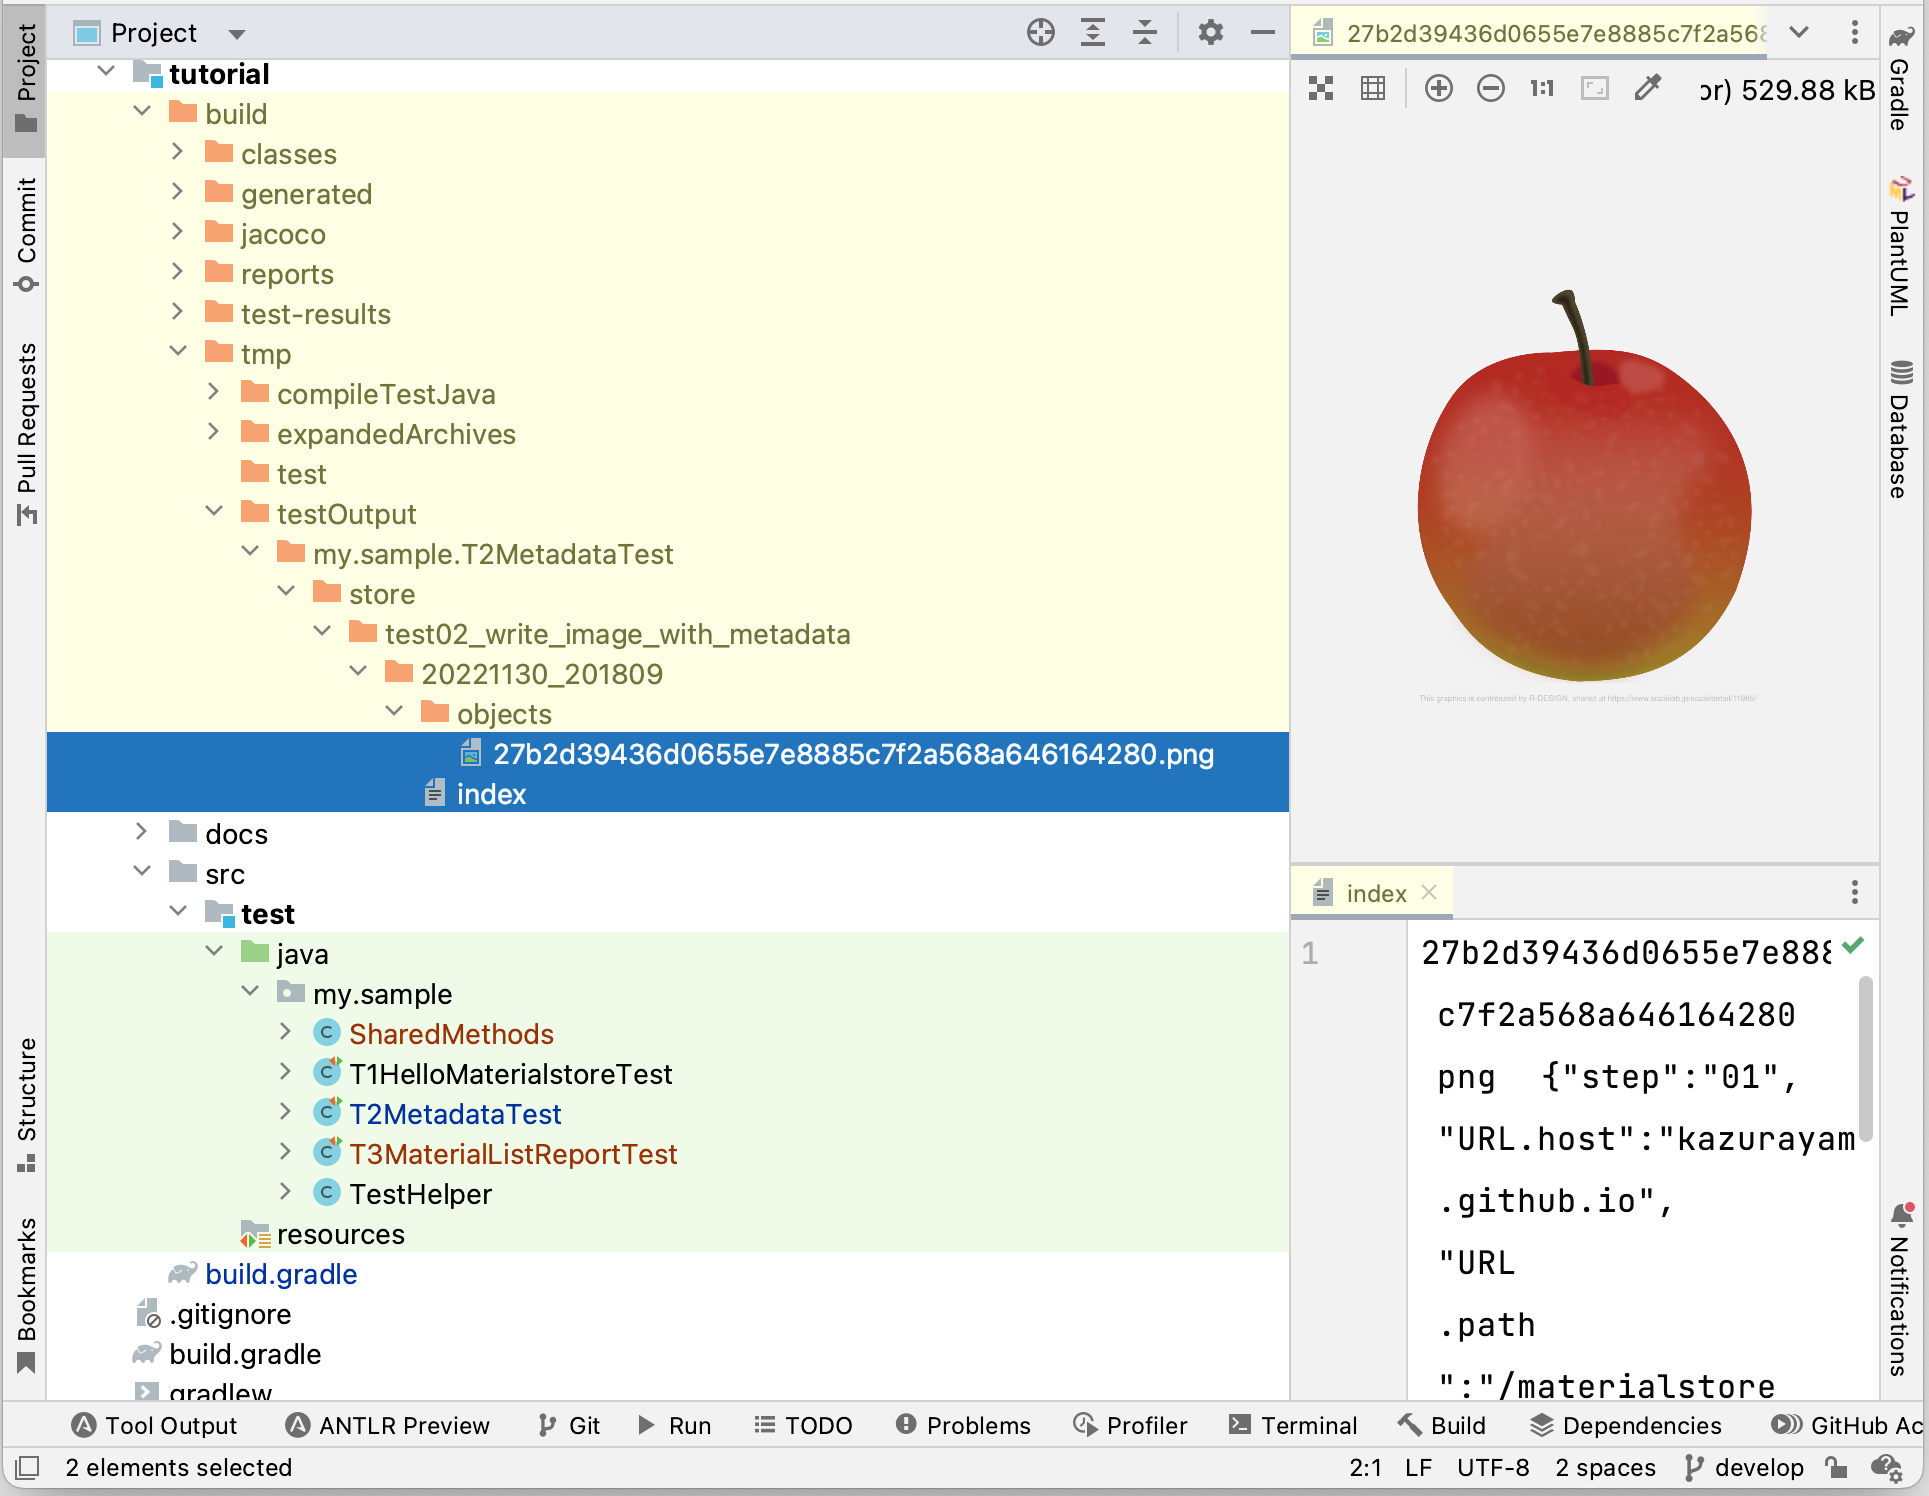
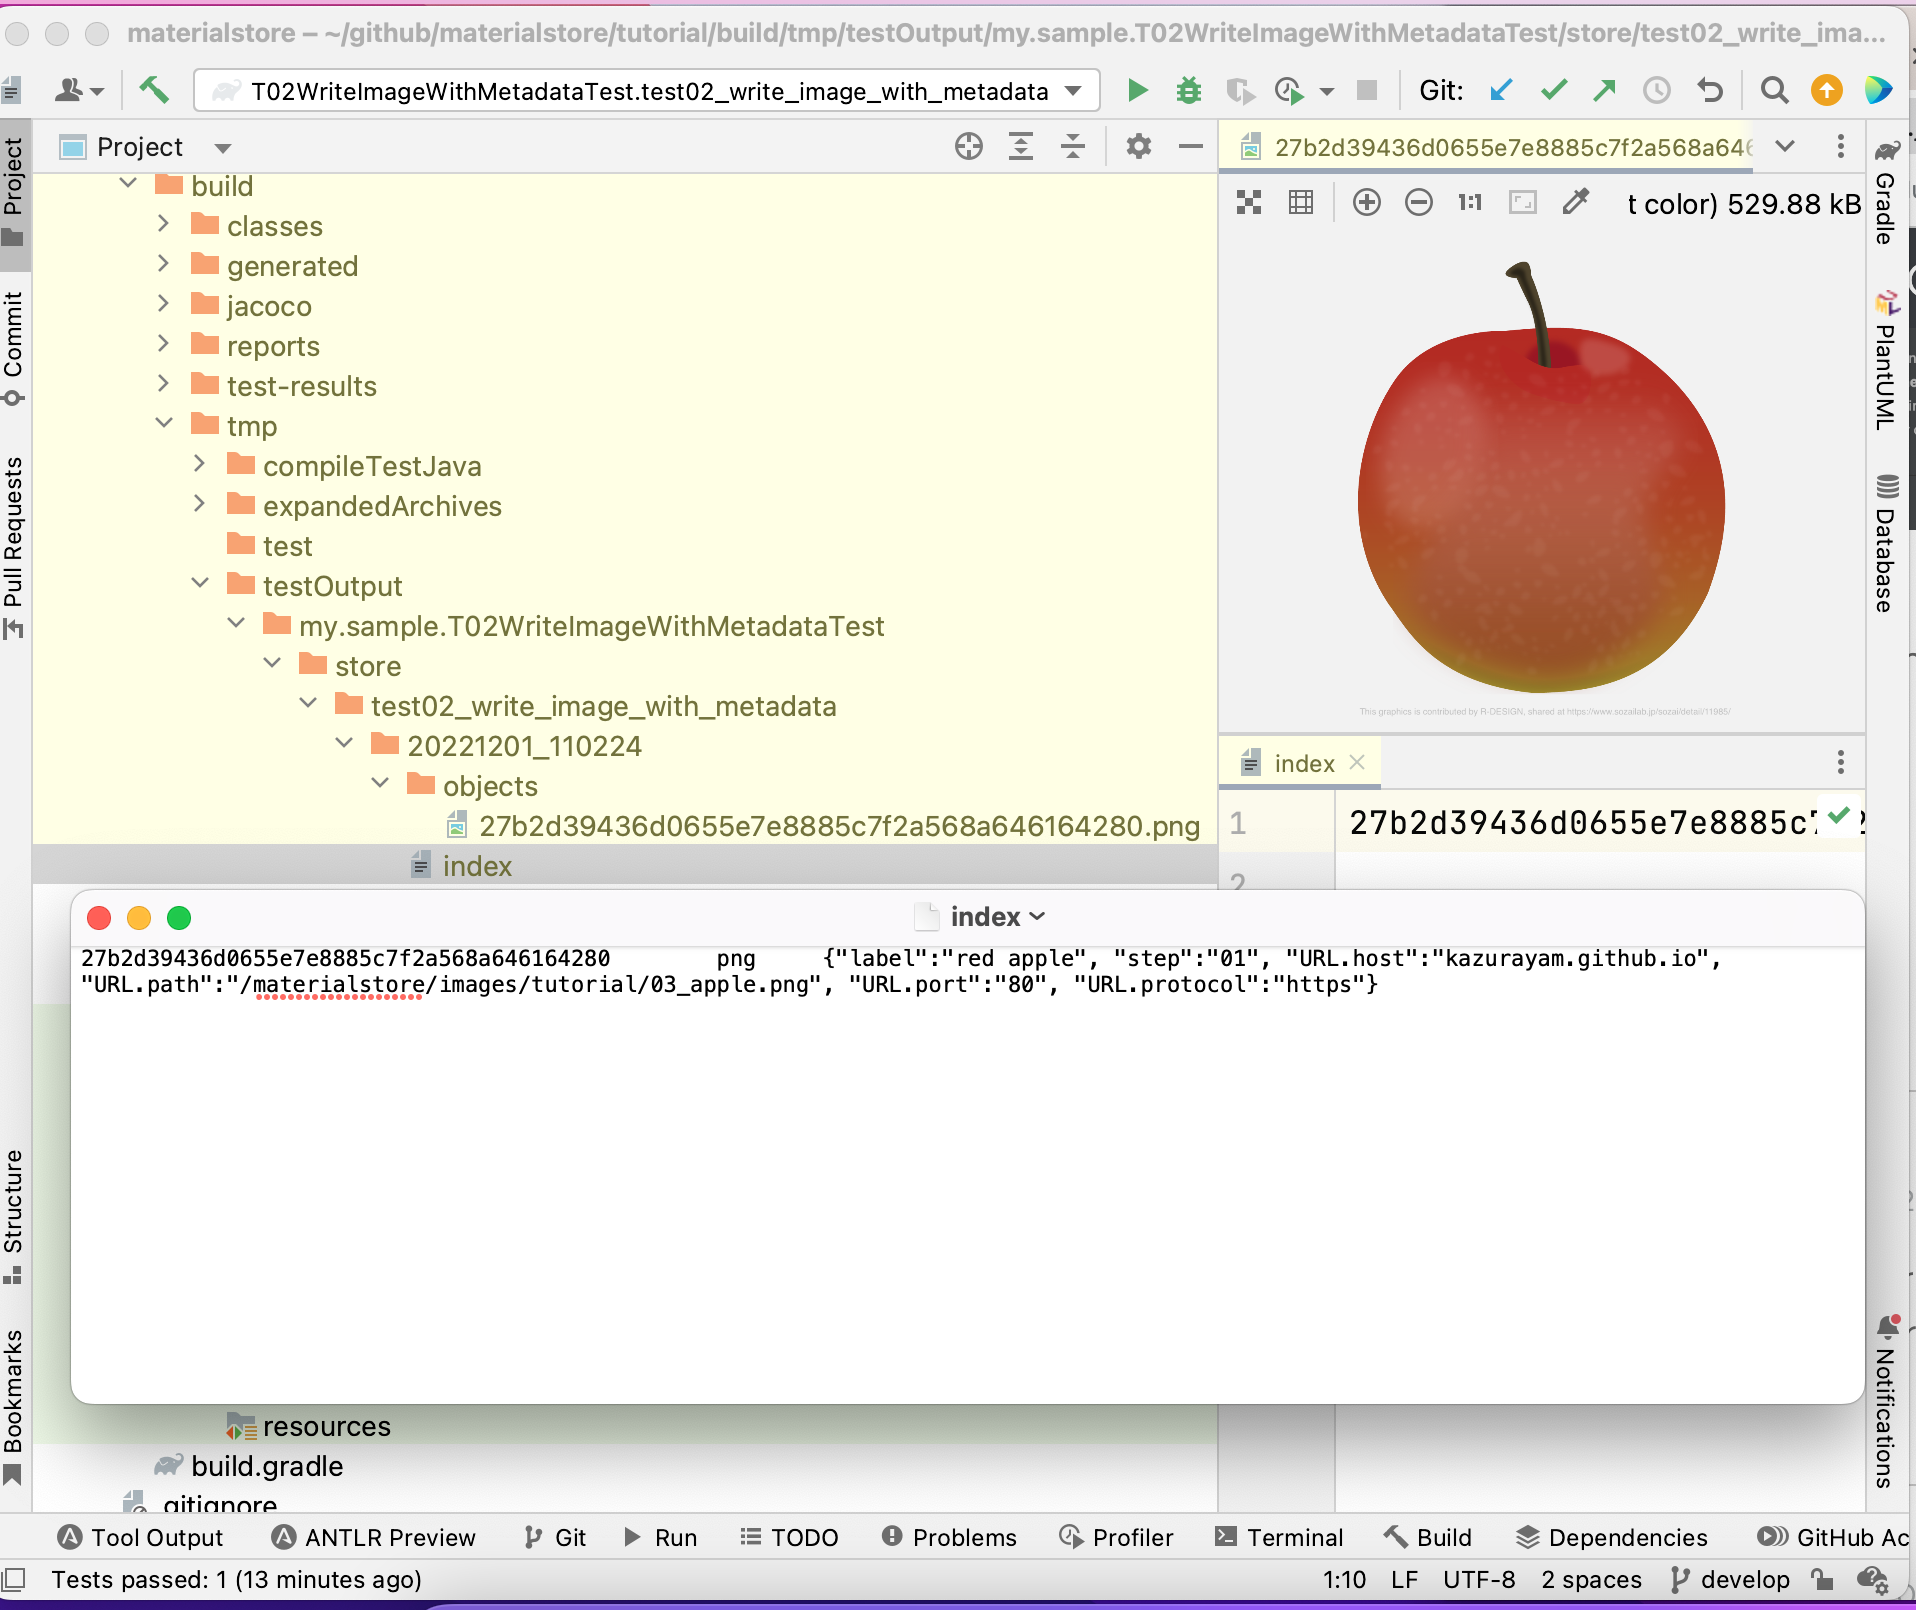
#214

Changed region(s): [[0.0, 0.0, 1.0, 1.0], [0.7082, 0.1537, 0.9238, 0.4612], [0.7698, 0.7995, 0.8622, 0.8302]]

diff --git a/tutorial/src/test/java/my/sample/T03WriteMultipleImagesTest.java b/tutorial/src/test/java/my/sample/T03WriteMultipleImagesTest.java
@@ -28,9 +28,10 @@ public class T03WriteMultipleImagesTest {
             throws MaterialstoreException {
         JobName jobName = new JobName("test03_write_multiple_images");
         JobTimestamp jobTimestamp = JobTimestamp.now();
-        SharedMethods.write3images(store, jobName, jobTimestamp);                       // (16)
+        SharedMethods.write3images(store, jobName, jobTimestamp);  // (16)
         MaterialList allMaterialList =
-                store.select(jobName, jobTimestamp, QueryOnMetadata.ANY); // (17)
+                store.select(jobName, jobTimestamp,
+                        QueryOnMetadata.ANY);                      // (17)
         assertEquals(3, allMaterialList.size());
     }
 }

diff --git a/tutorial/src/test/java/my/sample/T02WriteImageWithMetadataTest.java b/tutorial/src/test/java/my/sample/T02WriteImageWithMetadataTest.java
@@ -45,8 +45,8 @@ public class T02WriteImageWithMetadataTest {
                         bytes);
 
         assertNotNull(material);
-        System.out.println(material.getID() + " " +
-                material.getDescription());                    // (14)
+        System.out.println(material.getID() + " "
+                + material.getDescription());                   // (14)
 
         assertEquals(FileType.PNG, material.getFileType());
         assertEquals("https",

diff --git a/docs/index.md b/docs/index.md
@@ -15,7 +15,8 @@
     -   <a href="#2nd-example-write-an-image-with-metadata" id="toc-2nd-example-write-an-image-with-metadata">2nd example: write an image with Metadata</a>
         -   <a href="#metadata-based-on-url-manually-created-metadata" id="toc-metadata-based-on-url-manually-created-metadata">Metadata based on URL &amp; manually created Metadata</a>
         -   <a href="#order-of-key-value-pairs-in-metadata" id="toc-order-of-key-value-pairs-in-metadata">Order of key-value pairs in Metadata</a>
-        -   <a href="#metadata-explicitly-specified" id="toc-metadata-explicitly-specified">Metadata explicitly specified</a>
+        -   <a href="#keyvalue-pairs-explicitly-specified" id="toc-keyvalue-pairs-explicitly-specified">key:value pairs explicitly specified</a>
+        -   <a href="#retrieving-information-of-a-material" id="toc-retrieving-information-of-a-material">Retrieving information of a material</a>
     -   <a href="#3rd-example-writing-multiple-images" id="toc-3rd-example-writing-multiple-images">3rd example: writing multiple images</a>
     -   <a href="#4th-example-retrieving-a-saved-material" id="toc-4th-example-retrieving-a-saved-material">4th example : retrieving a saved material</a>
     -   <a href="#5th-example-selecting-a-materiallist" id="toc-5th-example-selecting-a-materiallist">5th example : Selecting a MaterialList</a>
@@ -395,8 +396,6 @@ These types will cover the most cases in your automated UI testing.
 
 I will show you next sample code `test02_write_image_with_metadata` of `T2MetadataTest` class.
 
-**T2MetadataTest**
-
     public class T02WriteImageWithMetadataTest {
 
         private Store store;
@@ -424,8 +423,8 @@ I will show you next sample code `test02_write_image_with_metadata` of `T2Metada
                             bytes);
 
             assertNotNull(material);
-            System.out.println(material.getID() + " " +
-                    material.getDescription());                    // (14)
+            System.out.println(material.getID() + " "
+                    + material.getDescription());                   // (14)
 
             assertEquals(FileType.PNG, material.getFileType());
             assertEquals("https",
@@ -481,11 +480,13 @@ the `index` file contains a single line of text, which is something like:
 
 **index**
 
-    27b2d39436d0655e7e8885c7f2a568a646164280 png {"step":"01", "URL.host":"kazurayam.github.io", "URL.path":"/materialstore/images/tutorial/03_apple.png", "URL.port":"80", "URL.protocol":"https"}
+    27b2d39436d0655e7e8885c7f2a568a646164280 png {"label":"red apple", "step":"01", "URL.host":"kazurayam.github.io", "URL.path":"/materialstore/images/tutorial/03_apple.png", "URL.port":"80", "URL.protocol":"https"}
 
-Here you can see a JSON-like string which contains several **key:value** pairs. I would call this section as **Metadata** of a material. The metadata was created as specified by the line (13).
+Please find a JSON-like string enclosed by a pair of curly braces (`{` and `}`). I call this section as **Metadata** of a material. The Metadata contains several **"key":"value"** pairs. The metadata was created as specified by the line (13).
 
-            Metadata.builder(url).put("step", "01") // (13)
+            Metadata.builder(url)           // (13)
+                    .put("step", "01")
+                    .put("label", "red apple")
                     .build(),
 
 The `url` variable is an instance of `java.net.URL`. You should check the [Javadoc of `URL`](https://docs.oracle.com/javase/7/docs/api/java/net/URL.html). The constructor `new URL(String spec)` can accept a string "<https://kazurayam.github.io/materialstore/images/tutorial/03_apple.png>" and parse it to its components: `protocol`, `host`, `port`, `path`, `query` and `fragment`. The `url` variable passed to the `Metadata.builder(url)` call is parsed by the URL class and transformed into key-value pair `"URL.hostname": "kazurayam.github.io"` and others.
@@ -503,17 +504,32 @@ The URL string `"https://kazurayam.github.io/materialstore/#first-sample-code-he
 
 ### Order of key-value pairs in Metadata
 
-In the pair of curly braces (`{` .. `}`), the key-value pairs are arranged by the "key", sorted by the ascending order as string. Therefore, in the above example, the key `URL.fragment` comes first, the key "URL.protocol" last.
+In the pair of curly braces (`{` .. `}`), the key-value pairs are arranged by the "key", sorted by the ascending order as string. Therefore, in the above example, the key `URL.fragment` comes first, the key "URL.protocol" comes last.
 
-### Metadata explicitly specified
+### key:value pairs explicitly specified
 
-Also the line (13) explicitly created a key:value pair: `"step": "01"`.
+Also the line (13) explicitly created 2 pairs of key:value, that is `"step": "01"` and `"label":"red apple"`.
 
-You can create as many as key:value pairs. Both of key and value must be String (no number, no boolean, no null). The key can be any string. Also the value can be any string. You can use any characters including `/` (forward slash), `\` (back slash), `:` (colon). You can use non-ascii characters, of course. For example: you can create a key-value pair `"番号": "123/456 xyz"`.
+You can create as many as key:value pairs. Both of key and value must be the type String. The key can be any string, the value can be any string as well. You can use any characters including `/` (forward slash), `\` (back slash), `:` (colon). You can use non-ascii characters, of course. For example: you can create a key-value pair `"番号": "123/456 xyz"`. The Character escaping rule of JSON applies here: a double quote character `"` will be escaped to `\"`; a back-slash character `\` will be escaped to be `\\`.
 
-You can create any key-value pairs (Metadata) as you like and associate it to the individual material objects. The metadata is stored in the `index` file, which is apart from the material file itself. The image file downloaded from URL is not altered at all. The image is saved as is into the `objects` directory. Adding to it, you can associate a rich set of Metadata with each individual materials. What sort of Metadata to associate? --- it is completely up to you.
+Metadata is stored in the `index` file, which is apart from the material file itself. The byte array of the image downloaded from a URL is not altered at all. The image is saved into the `objects` directory as is. And then, you can associate a flexible set of Metadata to each individual materials. What sort of Metadata to associate? --- it is completely up to you.
+
+Metadata plays an important role later when you start compiling advanced reports "ChronosDiff" and "TwinsDiff".
+
+### Retrieving information of a material
+
+The line (14) prints the summarized information of the material: the ID, the FileType, and the Metadata.
+
+Also you can get various information out of the `material` variable. For example, the line (15) retrieves the value of `"URL.host"` out of the material object, compares it with the expected staring value.
+
+            assertEquals("kazurayam.github.io",
+                    material.getMetadata().get("URL.host"));        // (15)
+
+Please check the [Javadoc of Material](https://kazurayam.github.io/materialstore/api/com/kazurayam/materialstore/core/filesystem/Material.html) for what sort of accessor methods are implemented.
 
 ## 3rd example: writing multiple images
+
+Web will make a test case which downloads 3 image files form URL and store them into the store.
 
     public class T03WriteMultipleImagesTest {
         private Store store;
@@ -528,12 +544,70 @@ You can create any key-value pairs (Metadata) as you like and associate it to th
                 throws MaterialstoreException {
             JobName jobName = new JobName("test03_write_multiple_images");
             JobTimestamp jobTimestamp = JobTimestamp.now();
-            SharedMethods.write3images(store, jobName, jobTimestamp);                       // (16)
+            SharedMethods.write3images(store, jobName, jobTimestamp);  // (16)
             MaterialList allMaterialList =
-                    store.select(jobName, jobTimestamp, QueryOnMetadata.ANY); // (17)
+                    store.select(jobName, jobTimestamp,
+                            QueryOnMetadata.ANY);                      // (17)
             assertEquals(3, allMaterialList.size());
         }
     }
+
+This code calls `SharedMethods.write3images(Store, JobName, JobTimestap)` method. It is implemented as this:
+
+**SharedMethod.write3images**
+
+        public static final void write3images(Store store, JobName jn, JobTimestamp jt)          // (16)
+                throws MaterialstoreException {
+            String prefix =
+                    "https://kazurayam.github.io/materialstore/images/tutorial/";
+            // Apple
+            URL url1 = SharedMethods.createURL(prefix + "03_apple.png");
+            store.write(jn, jt, FileType.PNG,
+                    Metadata.builder(url1)
+                            .putAll(ImmutableMap.of(
+                                    "step", "01",
+                                    "label", "red apple"))
+                            .build(),
+                    SharedMethods.downloadUrl(url1));
+            // Mikan
+            URL url2 = SharedMethods.createURL(prefix + "04_mikan.png");
+            store.write(jn, jt, FileType.PNG,
+                    Metadata.builder(url2)
+                            .putAll(ImmutableMap.of(
+                                    "step", "02",
+                                    "label", "mikan"))
+                            .build(),
+                    SharedMethods.downloadUrl(url2));
+            // Money
+            URL url3 = SharedMethods.createURL(prefix + "05_money.png");
+            store.write(jn, jt, FileType.PNG,
+                    Metadata.builder(url3)
+                            .putAll(ImmutableMap.of(
+                                    "step", "03",
+                                    "label", "money"))
+                            .build(),
+                    SharedMethods.downloadUrl(url3));;
+        }
+
+This code makes HTTP requests to
+
+-   <http://kazurayam.github.io/materialstore/images/tutorial/03_apple.png>
+
+-   <http://kazurayam.github.io/materialstore/images/tutorial/04_mikan.png>
+
+-   <http://kazurayam.github.io/materialstore/images/tutorial/05_money.png>
+
+and save the image files into a directory inside the store. When you run this test case, you will get a new file tree as follows.
+
+![08 writing multiple images](./images/tutorial/08_writing_multiple_images.png)
+
+The `index` file will contain 3 lines, one for each PNG image file.
+
+**index**
+
+    8a997bec64cd056c2075da95c0c281320ee7a7c1 png {"label":"mikan", "step":"02", "URL.host":"kazurayam.github.io", "URL.path":"/materialstore/images/tutorial/04_mikan.png", "URL.port":"80", "URL.protocol":"https"}
+    36f9f62bdb3ad45cb8c6bc1f4062fbbd4fd180db    png {"label":"money", "step":"03", "URL.host":"kazurayam.github.io", "URL.path":"/materialstore/images/tutorial/05_money.png", "URL.port":"80", "URL.protocol":"https"}
+    27b2d39436d0655e7e8885c7f2a568a646164280    png {"label":"red apple", "step":"01", "URL.host":"kazurayam.github.io", "URL.path":"/materialstore/images/tutorial/03_apple.png", "URL.port":"80", "URL.protocol":"https"}
 
 ## 4th example : retrieving a saved material
 
